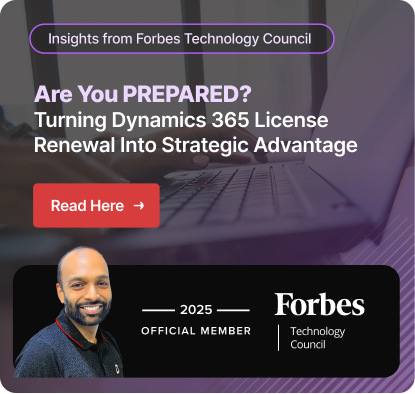
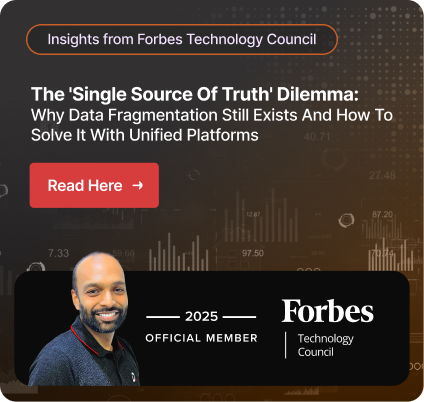
update link in TimerModal and blog post

diff --git a/pages/blog/[slug].js b/pages/blog/[slug].js
@@ -303,7 +303,7 @@ function Post({ blogs, blogcat, authordetials, author }) {
                   </div>
                   <div className="col-lg-4">
                     <div className="prom-bann">
-                      <a style={{ marginBottom: '20px', display: 'block' }} rel="nofollow" href="https://www.forbes.com/councils/forbestechcouncil/2025/12/03/are-you-prepared-turning-dynamics-365-license-renewal-into-strategic-advantage/" target="_blank">
+                      <a style={{ marginBottom: '20px', display: 'block' }} rel="nofollow" href="https://www.forbes.com/councils/forbestechcouncil/2026/01/20/the-single-source-of-truth-dilemma-why-data-fragmentation-still-exists-and-how-to-solve-it-with-unified-platforms/" target="_blank">
                         {/* <Image src="/img/blog-side-pic-top.png" width={413} height={350} alt="d605-left" /></a> */}
                         <Image src="/img/forber-03.png" width={413} height={392} alt="d605-left" /></a>
                       <a href="https://msdynamicsworld.com/vendor/dynamics-square-usa" target="_blank" rel="nofollow"><Image

diff --git a/components/TimerModal.js b/components/TimerModal.js
@@ -51,7 +51,7 @@ const TimerModal = () => {
               </button>
 
               <a 
-                href="https://www.forbes.com/councils/forbestechcouncil/2025/12/03/are-you-prepared-turning-dynamics-365-license-renewal-into-strategic-advantage/" 
+                href="https://www.forbes.com/councils/forbestechcouncil/2026/01/20/the-single-source-of-truth-dilemma-why-data-fragmentation-still-exists-and-how-to-solve-it-with-unified-platforms/" 
                 target="_blank" 
                 rel="nofollow"
                 onClick={handleCloseModal}
